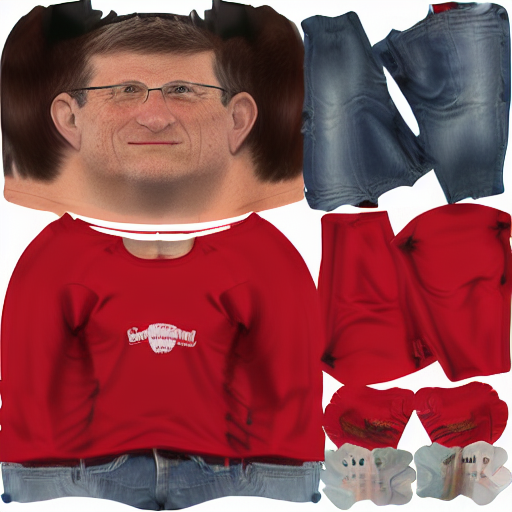
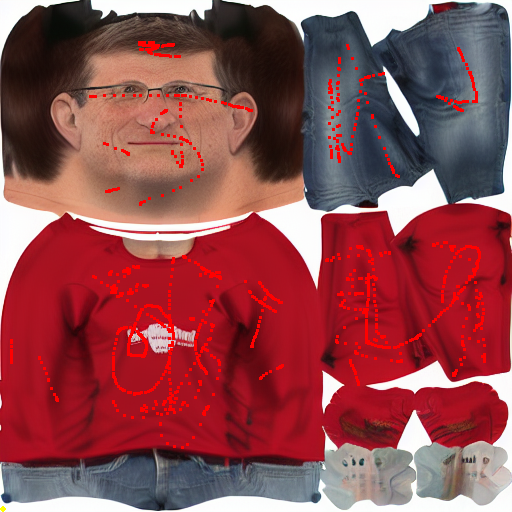
Texture reload

diff --git a/viewer.py b/viewer.py
@@ -1,42 +1,38 @@
-from time import sleep
-from typing import Tuple
-
 import numpy as np
 import trimesh.path
 from PIL import Image
 import pyglet
-from numpy._typing import NDArray
-from trimesh import load_mesh, Scene, load_path, Trimesh
+from trimesh import load_mesh, Scene
 from trimesh.scene import Camera
-from trimesh.visual import TextureVisuals, ColorVisuals
+from trimesh.visual import TextureVisuals
 from trimesh.transformations import translation_matrix
-from trimesh.path.exchange.misc import edges_to_path
-from trimesh.path.path import Path
 from TextureViewer import TextureViewer
 from trimesh.viewer.windowed import SceneViewer
-from watchdog.events import FileModifiedEvent, FileSystemEventHandler, FileSystemEvent
-from watchdog.observers import Observer
-from ModelParts import ModelParts, find_segment, get_segment_indices, get_segment_color
+from ModelParts import find_segment, get_segment_indices, get_segment_color
+import os
 
-texture_file = "drawed_body.png"
-# texture_file = "body.png"
+if os.path.isfile("drawed_body.png"):
+    texture_file = "drawed_body.png"
+else:
+    texture_file = "body.png"
 texture_img = Image.open(texture_file)
-texture_data = np.array(texture_img)
 
-image_viewer = TextureViewer(texture_file)
+debug_red_texture = Image.new("RGBA", (512, 512), (255, 0, 0, 255))
+debug_green_texture = Image.new("RGBA", (512, 512), (0, 255, 0, 255))
+
+
+image_viewer = TextureViewer(texture_img)
 # noinspection PyTypeChecker
 mesh = load_mesh('./models/trimesh_uv.obj', process=False)
 segmented_mesh = load_mesh('./models/trimesh_uv_labeled.obj', process=False)
 
+mesh.visual = TextureVisuals(image=texture_img, uv=mesh.visual.uv)
+
 total_faces = len(mesh.faces)
 total_vertices = len(mesh.vertices)
 
-print(total_faces)
-print(total_vertices)
-
-texture = Image.open(texture_file)
-mesh.visual = TextureVisuals(image=texture, uv=mesh.visual.uv)
-
+print(f"Total faces: {total_faces}")
+print(f"Total vertices: {total_vertices}")
 
 camera = Camera(name="main_camera", fov=(90, 90), resolution=(800, 800))
 scene = Scene(geometry=mesh, camera=camera)
@@ -47,50 +43,29 @@ scene.graph.update(
     matrix=translation_matrix([0, -1, -2])
 )
 
+
 viewer = SceneViewer(scene=scene, start_loop=False)
-# noinspection PyTypeChecker
-# viewer = scene.show(start_loop=False, callback=lambda s: None)
 
-# # On clicking the window, raycast to get the click location in 3d world, and print the uv coordinates
-# # of the corresponding face
-# while viewer.is_alive:
-#     click = viewer.pick()
-#     if click is not None:
-#         location, face_id = click
-#         face = mesh.faces[face_id]
-#         uv = mesh.visual.uv[face]
-#         print(uv)
-#
-
-# TODO
-def update_texture(dt = None, file: str = "") -> None:
+@image_viewer.dispatcher.event
+def on_texture_update(texture: Image) -> None:
     """
     Update the texture of the mesh with the new texture file.
     """
-    texture = Image.open(file)
-    mesh.visual = TextureVisuals(image=texture, uv=mesh.visual.uv)
+    mesh.visual.material.image = texture
+    # Update the mesh with the new texture
+    name = mesh.metadata.get('name')
+    viewer.add_geometry(name, mesh)
+    viewer.switch_to()
     viewer.dispatch_event("on_draw")
-    print("Texture updated", dt, file)
+    image_viewer.switch_to()
 
-
-
-
-class TextureChangeHandler(FileSystemEventHandler):
-    def on_any_event(self, event: FileSystemEvent) -> None:
-        print("file event")
-    def on_modified(self, event):
-        sleep(1)
-        pyglet.clock.schedule_once(update_texture, 0, texture_file)
-
-
-# event_handler = TextureChangeHandler()
-# observer = Observer()
-# observer.schedule(event_handler, path=".", recursive=False)
-# observer.start()
-
-
+@viewer.event
+def on_key_press(symbol, modifiers):
+    if symbol == pyglet.window.key.C:
+        on_texture_update(debug_green_texture)
 
 mouse_dragged = False
+
 
 @viewer.event
 def on_mouse_drag(x, y, dx, dy, buttons, modifiers):
@@ -125,8 +100,6 @@ def on_mouse_release(x, y, button, modifiers):
 
     # Find the face that the ray intersects
     location, index_ray, index_tri = mesh.ray.intersects_location(origin.reshape(1, -1), drctn.reshape(1, -1))
-    print(location, index_ray, index_tri)
-
 
     if location.size > 0 :
         # Get the face index

diff --git a/TextureViewer.py b/TextureViewer.py
@@ -1,20 +1,29 @@
 import pyglet
-from pyglet.image import Texture, AbstractImage
 from PIL import Image, ImageDraw
 from pyglet.gl import glEnable, glBlendFunc, GL_BLEND, GL_SRC_ALPHA, GL_ONE_MINUS_SRC_ALPHA
+
+class TextureViewerEvent(pyglet.event.EventDispatcher):
+    def __init__(self):
+        super().__init__()
+        self.register_event_type("on_texture_update")
+    def on_texture_update(self, texture:Image) -> None:
+        """
+        Update the texture of the mesh with the new texture file.
+        """
+        pass
+
 
 class TextureViewer(pyglet.window.Window):
     texture:Image = None
     canvas:Image = None
     is_drawing = False
     overlay:Image = None
+    dispatcher = TextureViewerEvent()
 
-    def __init__(self, texture:str):
+    def __init__(self, texture:Image):
         super().__init__(800, 800, "Texture Viewer", resizable=True)
-        self.texture = Image.open(texture, formats=('PNG',)).convert('RGBA')
-        print("Image mode:", self.texture.mode)
-        print("Image size:", self.texture.size)
-        print("Byte length:", len(self.texture.tobytes()))
+        # self.texture = Image.open(texture, formats=('PNG',)).convert('RGBA')
+        self.texture = texture
         self.set_size(self.texture.width, self.texture.height)
         self.new_canvas()
         self.new_overlay()
@@ -30,20 +39,16 @@ class TextureViewer(pyglet.window.Window):
 
 
     def on_mouse_press(self, x, y, button, modifiers):
-        print("Mouse pressed")
         if button == pyglet.window.mouse.LEFT:
             self.is_drawing = True
-            print(f"Mouse pressed at: ({x}, {y})")
     def on_mouse_release(self, x, y, button, modifiers):
         if button == pyglet.window.mouse.LEFT:
             self.is_drawing = False
             self.canvas_interface = None
-            print(f"Mouse released at: ({x}, {y})")
             self.save_texture()
 
     def on_mouse_drag(self, x, y, dx, dy, buttons, modifiers):
         if buttons == pyglet.window.mouse.LEFT:
-            print(f"Mouse moved to: ({x}, {y})")
             # You can add your drawing logic here
             canvas_interface = ImageDraw.Draw(self.canvas)
             canvas_interface.line([(x-1, y), (x+1, y)], fill=(255, 0, 0, 255), width=3)
@@ -52,6 +57,7 @@ class TextureViewer(pyglet.window.Window):
         self.texture.paste(flipped_texture, (0,0), flipped_texture)
         self.texture.save("drawed_body.png")
         self.new_canvas()
+        self.dispatcher.dispatch_event("on_texture_update", self.texture)
         print("Texture saved as drawed_body.png")
     def show_uvs(self, uvs, faces):
         # Convert the UV coordinates to pixel coordinates
@@ -61,10 +67,9 @@ class TextureViewer(pyglet.window.Window):
         # Draw the UV coordinates on the texture
         for i, (x, y) in enumerate(pixel_coords):
             overlay_interface.line([(x-1, y), (x+1, y)], fill=(255, 255, 0, 255), width=2)
-            print(f"Drawing UV at: ({x}, {y})")
             # Draw lines between uvs
 
-        # Now iterate over each face and draw the corresponding UV edges
+        # Iterate over each face and draw the corresponding UV edges
         for face in faces:
             # Each face is defined by 3 vertices, so we get the UVs for each of those vertices
             uv1 = pixel_coords[face[0]]  # First vertex
